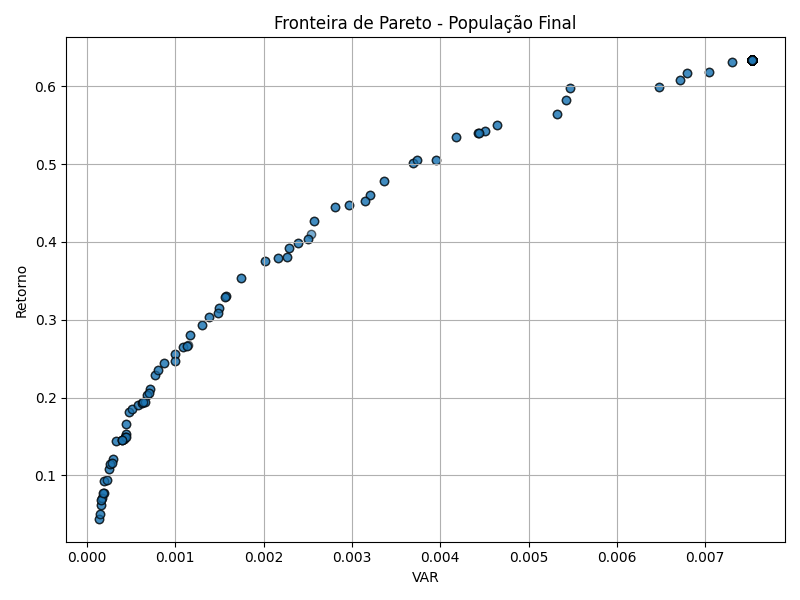
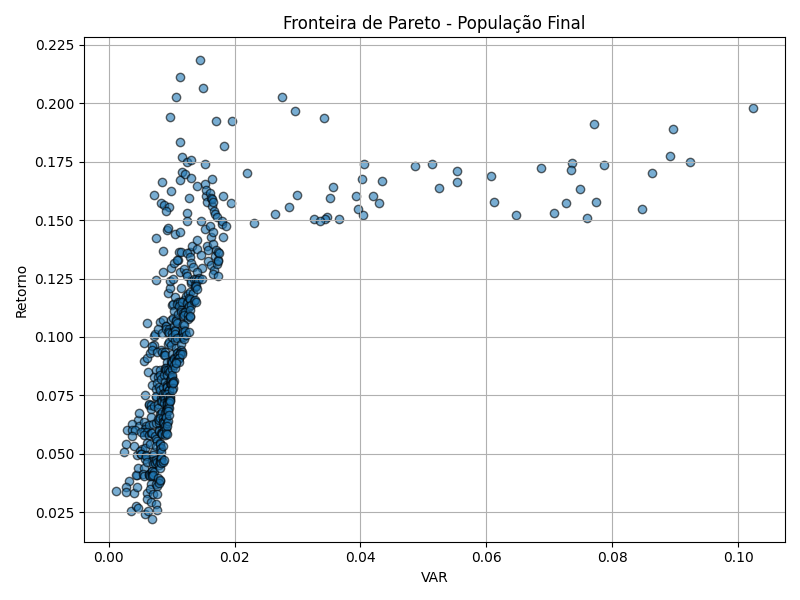
introducing mutate/crossover changes so they are feasible, changing hdbscan part and other tests

diff --git a/nsga3_v1.py b/nsga3_v1.py
@@ -18,6 +18,8 @@ from utils import (
     custom_crossover
 )
 from functools import partial
+from deap.tools.emo import uniform_reference_points
+
 
 # ========== PARÂMETROS ========== #
 year = 2024
@@ -179,6 +181,10 @@ fitnesses = toolbox.map(toolbox.evaluate, invalid_ind)
 for ind, fit in zip(invalid_ind, fitnesses):
     ind.fitness.values = fit
 
+# Número de objetivos = 2 (Retorno, Variância)
+ref_points = uniform_reference_points(nobj=2, p=12)  # p define granularidade
+
+
 for gen in range(1, N_GEN + 1):
     params = get_adaptive_params(
         gen=gen,
@@ -275,8 +281,7 @@ for gen in range(1, N_GEN + 1):
         for ind, fit in zip(invalid_ind, fitnesses):
             ind.fitness.values = fit
 
-    pop[:] = tools.selNSGA2(todos, POP_SIZE)
-
+    pop[:] = tools.selNSGA3(todos, POP_SIZE, ref_points)
 # ========== RESULTADOS FINAIS ========== #
 melhores_inds = tools.selBest(pop, k=5)
 

diff --git a/nsga2_v2/utils.py b/nsga2_v2/utils.py
@@ -355,7 +355,7 @@ def sample_dirichlet_with_bounds_fast(
     n: int,
     max_peso: float,
     min_peso: float,
-    alpha_val: float = 1.0,
+    alpha_val: float = 2.0,
     batch_size: int = 100,
     max_tries: int = 1000
 ) -> np.ndarray:
